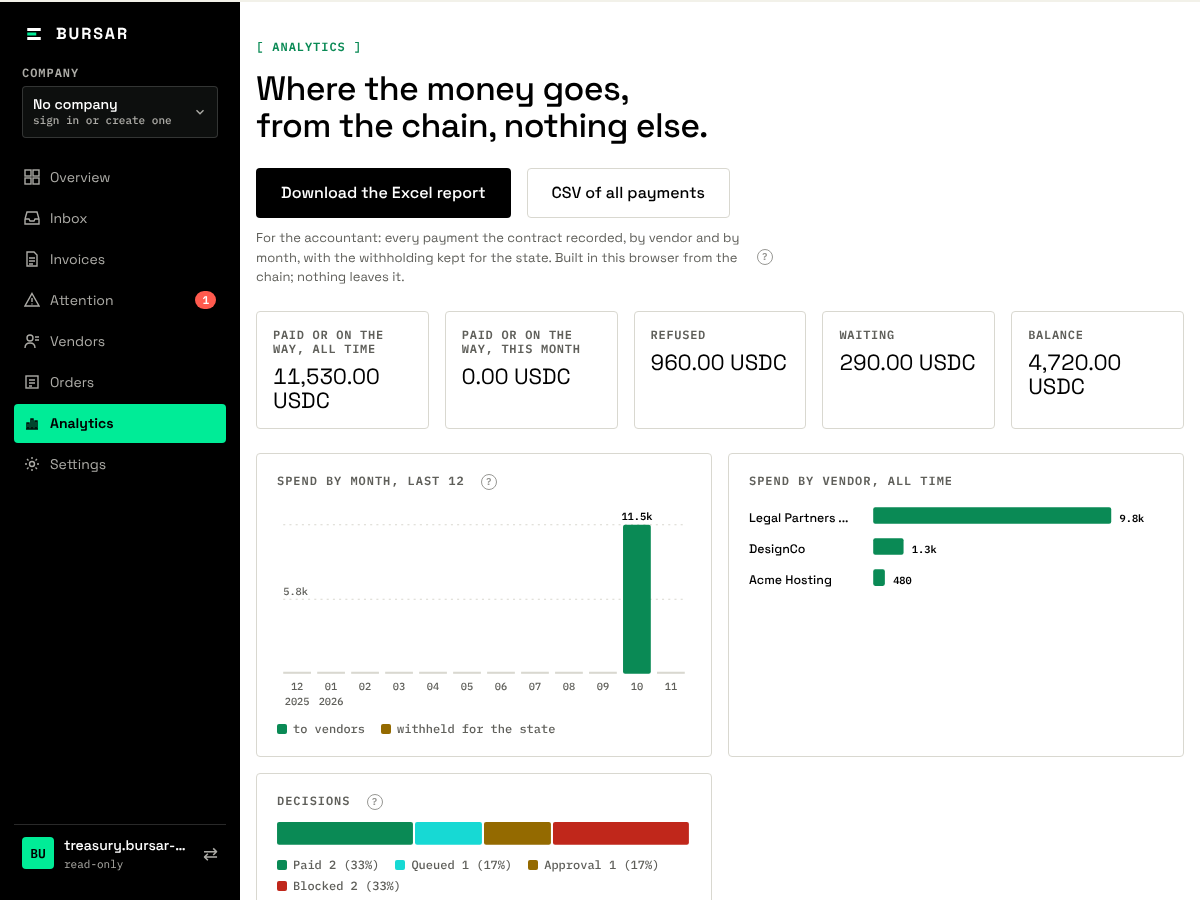
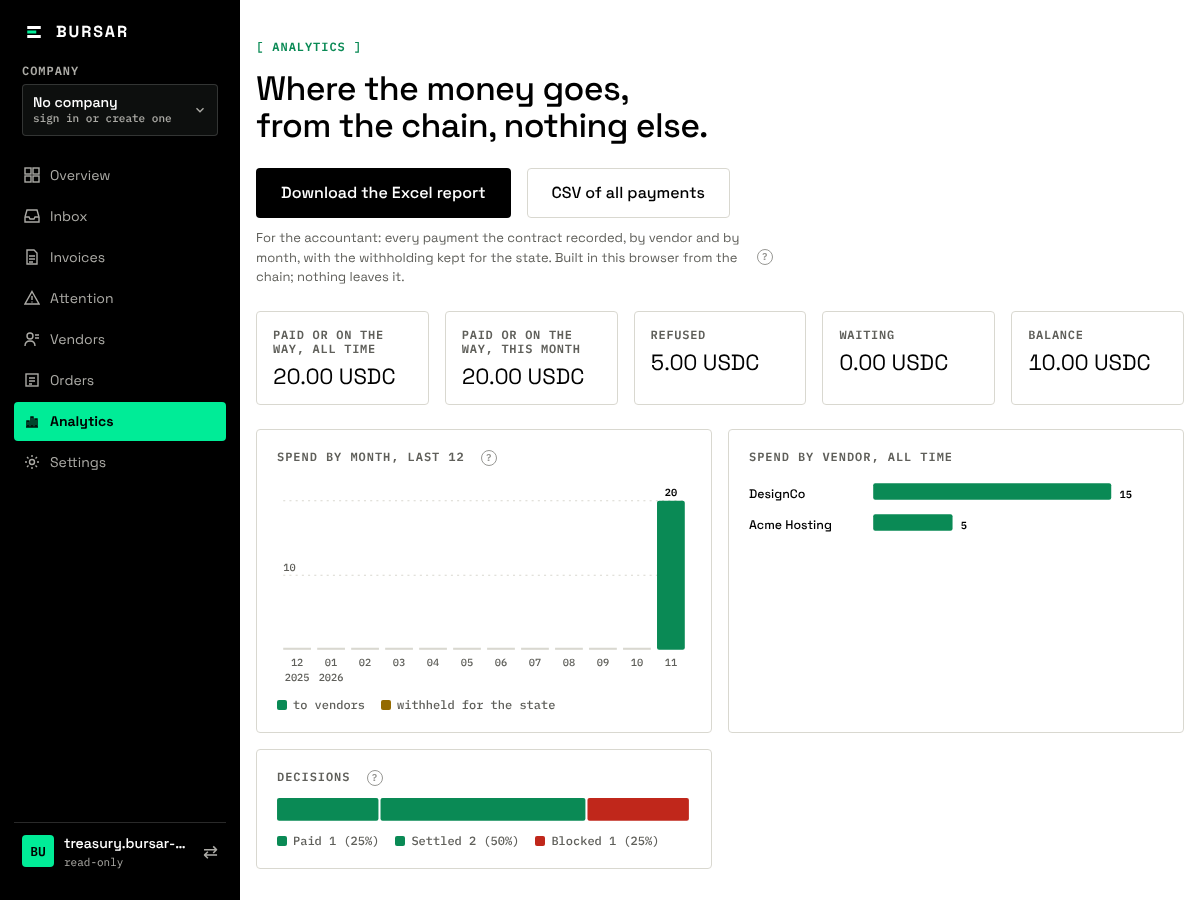
Fix what the eleventh judge run found: operators off the browser key, on-chain links for approved then settled payments, MCP and whitepaper wording
Claude-Session: https://claude.ai/code/session_01V7Aq8XmvYWJDegjhxrDGst

diff --git a/web/console.html b/web/console.html
@@ -491,7 +491,7 @@
     <h3 class="heading-sm" style="margin:40px 0 12px">Cross-chain, waiting for the executor</h3>
     <div id="autoSettleRow" class="autosettle" hidden>
       <button type="button" id="autoSettle" class="toggle" role="switch" aria-checked="false" aria-labelledby="autoSettleTitle"><span class="knob"></span></button>
-      <div class="t"><b id="autoSettleTitle">Automatic settlement is off</b><div class="muted" id="autoSettleNote">Queued payments wait for you to press Settle via Intents on each one.</div></div>
+      <div class="t" style="cursor:pointer" onclick="document.getElementById('autoSettle').click()"><b id="autoSettleTitle">Automatic settlement is off</b><div class="muted" id="autoSettleNote">Queued payments wait for you to press Settle via Intents on each one.</div></div>
     </div>
     <div class="wrap"><table id="attnQueued"><thead><tr><th>#</th><th>vendor</th><th>invoice</th><th>amount</th><th>destination</th></tr></thead><tbody></tbody></table></div>
   </div>
@@ -2239,10 +2239,18 @@ function onChainLinks(r) {
     const x = txIndex.receipts.filter((x) => x.methods.includes("settle") && x.ts > c + 1e9 && x.ts < u - 1e9 && !txClaimed.has(x.hash)).sort((a, b) => b.ts - a.ts)[0];
     if (x) { txClaimed.add(x.hash); seen.add(x.hash); parts.push(near(x.hash, "settle", x.ts)); }
   }
-  // the contract's timestamps arrive as JSON numbers (rounded past the microsecond): match a receipt within two seconds
+  // the contract stores the block of the receipt, nearblocks the block of the transaction, a block or two earlier (and the
+  // timestamps arrive as JSON numbers, rounded past the microsecond): take the nearest receipt within six seconds
   for (const t of [Number(r.created_at) || 0, Number(r.updated_at) || 0]) {
     if (!t) continue;
-    for (const x of txIndex.receipts) if (Math.abs(x.ts - t) < 2e9 && !seen.has(x.hash)) { seen.add(x.hash); parts.push(near(x.hash, x.methods[0].replace(/_/g, " "), x.ts)); }
+    const x = txIndex.receipts.filter((x) => Math.abs(x.ts - t) < 6e9 && !seen.has(x.hash) && !txClaimed.has(x.hash)).sort((a, b) => Math.abs(a.ts - t) - Math.abs(b.ts - t))[0];
+    if (x) { seen.add(x.hash); txClaimed.add(x.hash); parts.push(near(x.hash, x.methods[0].replace(/_/g, " "), x.ts)); }
+  }
+  // a payment held, approved and then settled keeps only the settlement's time: the one approval between the request and the settle
+  if (["Settled", "Settling"].includes(r.status) && r.reason && c) {
+    const end = parts.find((p) => p.label === "settle")?.ts || u;
+    const x = txIndex.receipts.filter((x) => x.methods.some((m) => m.startsWith("approve_payment")) && x.ts > c && x.ts < end && !seen.has(x.hash) && !txClaimed.has(x.hash)).sort((a, b) => a.ts - b.ts)[0];
+    if (x) { seen.add(x.hash); txClaimed.add(x.hash); parts.push(near(x.hash, "approve payment", x.ts)); }
   }
   parts.sort((a, b) => a.ts - b.ts);
   if (r.dest_tx && !r.dest_tx.startsWith("0xstub")) { const base = DEST_EXPLORER[r.chain]; parts.push({ label: `${r.chain} tx`, hash: r.dest_tx, ts: Infinity, url: base ? `${base}${encodeURIComponent(r.dest_tx)}` : "" }); }
@@ -2318,8 +2326,9 @@ function renderSettings() {
 // The key a wallet owner keeps in this browser can call these and nothing else; the rest (ownership, withdrawals, roles, code) needs the wallet itself.
 // What the browser key of a wallet owner may sign alone. Never a vendor or a payout (add_vendor, update_vendor,
 // confirm_vendor_payout: with request_payment they would let a stolen key pay any address), never the DAO (clear_dao),
-// a withdrawal, the owner or the roles, a new build: those the wallet signs, through ownerCall, and shows the owner first.
-const WALLET_KEY_METHODS = ["set_order_bound", "add_order", "add_recurring_order", "close_order", "set_company", "set_limits", "approve_payment", "cancel_payment", "open_dao_proposal_for", "sync_dao_proposal", "sync_balance", "set_vault", "request_payment", "add_operator", "remove_operator", "mark_withholding_remitted", "set_paused", "reset_in_flight"];
+// an operator (add_operator, remove_operator), a withdrawal, the owner or the roles, a new build: those the wallet signs,
+// through ownerCall, and shows the owner first.
+const WALLET_KEY_METHODS = ["set_order_bound", "add_order", "add_recurring_order", "close_order", "set_company", "set_limits", "approve_payment", "cancel_payment", "open_dao_proposal_for", "sync_dao_proposal", "sync_balance", "set_vault", "request_payment", "mark_withholding_remitted", "set_paused", "reset_in_flight"];
 async function ownerCall(method, args, gasTgas = 30) {
   if (!settings.owner || !settings.ownerKey) throw new Error("the owner account and key are not in Settings");
   if (settings.ownerKeyKind === "wallet" && !WALLET_KEY_METHODS.includes(method)) {

diff --git a/web/docs.html b/web/docs.html
@@ -97,7 +97,7 @@
   <div class="rule">
     <span class="k">unknown_vendor</span><span>The vendor must be in the owner's allowlist, by id.</span>
     <span class="k">payout_changed</span><span>The payout printed on the invoice must equal the one the owner recorded for that vendor. A "new bank details" invoice dies here, blocked, not paid.</span>
-    <span class="k">duplicate_invoice</span><span>One invoice number per vendor, ever.</span>
+    <span class="k">duplicate_invoice</span><span>The same invoice number (normalized) or the same file as an invoice this vendor was already paid for or is waiting on; a refused invoice can be sent again.</span>
     <span class="k">over_payment_cap</span><span>No single payment above the per-payment cap.</span>
     <span class="k">over_daily_cap</span><span>No more than the daily cap in one day, across all vendors.</span>
     <span class="k">over_monthly_budget</span><span>No more than the vendor's monthly budget in one month.</span>
@@ -165,7 +165,7 @@
   <h2>Signing in</h2>
   <p>No password, no server. Three doors on the <a href="login">sign-in page</a>:</p>
   <ul>
-    <li><strong>NEAR wallet.</strong> The wallet tells the console who you are. If your account owns a treasury (the registry lists it, the contract confirms it), you pick it and the wallet adds a key limited to that contract to your browser: it signs vendors, orders, limits and approvals, never a transfer. If your account owns none, the console creates one at this first sign-in, in three small windows: your company (name, what it does, country; tax id optional), the creation, and how invoices are read. Under the hood: a payer account from the testnet faucet, the policy contract deployed with your wallet as owner, test USDC, four demo vendors and their orders, an agent with one key. Bursar pays for the accounts and the contract storage; you pay nothing.</li>
+    <li><strong>NEAR wallet.</strong> The wallet tells the console who you are. If your account owns a treasury (the registry lists it, the contract confirms it), you pick it and the wallet adds a key limited to that contract to your browser: it signs orders, limits, approvals and the vault, never a vendor or a payout, an operator, the DAO, a withdrawal, the owner or a new build: those the wallet signs, and shows you first. If your account owns none, the console creates one at this first sign-in, in three small windows: your company (name, what it does, country; tax id optional), the creation, and how invoices are read. Under the hood: a payer account from the testnet faucet, the policy contract deployed with your wallet as owner, test USDC, four demo vendors and their orders, an agent with one key. Bursar pays for the accounts and the contract storage; you pay nothing.</li>
     <li><strong>Invite link.</strong> A colleague's link signs you in with exactly the role they chose.</li>
     <li><strong>Keys file.</strong> For a treasury created with throwaway keys ("Download the keys"), when there is no wallet at all.</li>
   </ul>
@@ -243,7 +243,7 @@ npm run dev verify 1                             # the receipt behind payment 1 
     <span class="k">agent</span><span>The process (or the browser) that reads invoices and asks the contract to pay. One key, one method.</span>
     <span class="k">executor</span><span>The process that settles cross-chain payments the contract queued. No AI, no choice of destination.</span>
     <span class="k">payout</span><span>Where a vendor gets paid: a NEAR account, or a chain and an address. Recorded by the owner, compared on every invoice.</span>
-    <span class="k">hold</span><span>A payment that waits for a person: over the threshold, outside the orders, or flagged by the model.</span>
+    <span class="k">hold</span><span>A payment that waits for a person: over the threshold, outside the orders, flagged by the model, with a tax id, buyer or withholding that does not match the record, or from a chat bound to another vendor.</span>
     <span class="k">receipt</span><span>The signed, attested record of one reading inside the enclave.</span>
     <span class="k">TEE</span><span>Trusted execution environment: hardware-isolated compute (Intel TDX here) that proves what ran with an attestation quote.</span>
     <span class="k">registry</span><span>The public list of treasuries the explorer and the sign-in page read.</span>

diff --git a/web/login.html b/web/login.html
@@ -201,7 +201,7 @@ async function openTreasury(treasury, label, owner) {
     const seed = crypto.getRandomValues(new Uint8Array(32)); const pub = ed25519.getPublicKey(seed);
     const pubStr = "ed25519:" + b58(pub), secretKey = "ed25519:" + b58(concat(seed, pub));
     const { wallet } = await connect().getConnectedWallet();
-    await wallet.signAndSendTransaction({ network, signerId: owner, receiverId: owner, actions: [{ type: "AddKey", params: { publicKey: pubStr, accessKey: { permission: { receiverId: treasury, allowance: "250000000000000000000000", methodNames: ["set_order_bound", "add_order", "add_recurring_order", "close_order", "set_company", "set_limits", "approve_payment", "cancel_payment", "open_dao_proposal_for", "sync_dao_proposal", "sync_balance", "set_vault", "request_payment", "add_operator", "remove_operator", "mark_withholding_remitted", "set_paused", "reset_in_flight"] } } } }] });
+    await wallet.signAndSendTransaction({ network, signerId: owner, receiverId: owner, actions: [{ type: "AddKey", params: { publicKey: pubStr, accessKey: { permission: { receiverId: treasury, allowance: "250000000000000000000000", methodNames: ["set_order_bound", "add_order", "add_recurring_order", "close_order", "set_company", "set_limits", "approve_payment", "cancel_payment", "open_dao_proposal_for", "sync_dao_proposal", "sync_balance", "set_vault", "request_payment", "mark_withholding_remitted", "set_paused", "reset_in_flight"] } } } }] });
     let profiles = []; try { profiles = JSON.parse(localStorage.getItem("bursar.profiles") || "[]"); } catch {}
     const known = profiles.find((p) => p.treasury === treasury) || {};
     const profile = { network, treasury, agent: known.agent || "", agentKey: known.agentKey || "", owner, ownerKey: secretKey, ownerKeyKind: "wallet", label: label || known.label || treasury, operator: "", operatorKey: "", operatorRole: "", payer: known.payer || "", payerKey: known.payerKey || "" };

diff --git a/web/dashboard.html b/web/dashboard.html
@@ -127,7 +127,7 @@ async function load(e) {
       view(network, treasury, "list_vendors"), view(network, treasury, "list_payments", { from: 0, limit: 200 }),
     ]);
     const stat = (k, v) => `<div class="stat"><div class="k">${k}</div><div class="v">${v}</div></div>`;
-    $("#stats").innerHTML = stat("balance", usdc(stats.balance)) + stat("spent today", usdc(stats.spent_today)) + stat("per payment cap", usdc(limits.per_payment_cap)) + stat("daily cap", usdc(limits.daily_cap)) + stat("approval from", usdc(limits.approval_threshold)) + stat("payments", stats.payments) + (stats.paused ? stat("paused", "yes") : "");
+    $("#stats").innerHTML = stat("balance", usdc(stats.balance)) + stat("counted against today's cap", usdc(stats.spent_today)) + stat("per payment cap", usdc(limits.per_payment_cap)) + stat("daily cap", usdc(limits.daily_cap)) + stat("approval from", usdc(limits.approval_threshold)) + stat("payments", stats.payments) + (stats.paused ? stat("paused", "yes") : "");
     $("#vendors tbody").innerHTML = vendors.map(([id, v]) => {
       const b = BigInt(v.monthly_budget), s = BigInt(v.spent_this_month);
       const pct = b > 0n ? Number(s * 100n / b) : 0;

diff --git a/README.md b/README.md
@@ -64,7 +64,7 @@ flowchart LR
    - vendor on NEAR: USDC is transferred in the same transaction (`Paid`)
    - vendor on Base, Arbitrum, Ethereum, Solana or Sui: the **executor** (a plain process with the company's key, no AI) gets a NEAR Intents quote (EXACT_INPUT on the net amount the contract will send) with the vendor's recorded address as recipient and calls `settle` with the bytes 1Click signed and its signature. The contract verifies the signature against 1Click's key, checks that the quote pays the vendor's recorded address for exactly the net amount in USDC on the vendor's chain, that the swap keeps at least 98 percent of it and that it has not expired, registers the one-off deposit account on the token itself and sends the USDC there, in one receipt (`Settling`, then `Settled`). The executor names nothing; nobody signs anything by hand. A refunded settlement goes back in front of a person (`Approval`, reason `settlement_failed`), nothing is re-sent on the executor's own; one nobody can confirm is closed by the owner (`close_settlement`, delivered or not).
    - a USDC transfer that fails on the token contract is rolled back in the callback: balance restored, payment marked `transfer_failed`, nothing lost
-6. Everything is an on-chain event. The MCP server lets any assistant drive it, with exactly the agent's powers.
+6. Everything is an on-chain event. The MCP server lets any assistant drive it with the agent's powers, plus two housekeeping tools that use the owner's and the executor's keys when the environment has them (cancel a held payment, sync the DAO's answers).
 7. Anyone can re-verify the TEE receipt behind a payment, without the API key and without trusting the agent (`bursar verify`).
 8. Orders: the owner records what the company agreed to buy (a purchase order with a total, or a standing order per period). An invoice outside them, or one the model flagged, is held for a person instead of paid on the AI's word. Operators get on-chain roles (approve, manage vendors, manage orders), revocable by the owner.
 
@@ -234,7 +234,7 @@ Then ask: "submit the invoice at invoices/samples/04-acme-hosting-0924-fraud.pdf
 
 **8. Explorer and dashboard.** Open `web/explorer.html` (a static file, no build; live at `https://bursar.network/explorer`). See: every treasury on the network, read from the registry contract and verified against each policy contract (on mainnet `1 registered, 1 verified`; on testnet a hundred and more, the load test below included, plus yours after step 2; reading them all takes under a minute, with "reading 36 of 112 treasuries..." while it works), the totals across companies (treasury balance, paid out today, this month and all time, decisions, blocked, waiting for a person) and the last decisions of every company, with no vendor names and no invoice numbers. On testnet the registry also holds the load-test treasuries of 21 October (the `treasury.bursar-big-*.testnet` rows, invented companies), with every decision their contracts took on the generated invoices still on chain, read from the chain by this page like any other. The page shows accounts and numbers, never company or vendor names. `web/dashboard.html?treasury=treasury.you.testnet` is one company's own page: balance, caps, vendors with their monthly budget, and every payment with its decision, DAO proposal, destination transaction and attestation reference, all read from the RPC.
 
-**9. Be the customer, from a browser.** The console is `web/console.html` (live at `https://bursar.network/console`) and the door is `web/login.html` (live at `https://bursar.network/login`). Nothing to install: every number is read from the contract and every change is signed in the browser. Opened as a local file, everything works except the wallet door, because wallets answer to a web address: sign in with a wallet on the live site, or serve `web/` with any static server.
+**9. Be the customer, from a browser.** The console is `web/console.html` (live at `https://bursar.network/console`) and the door is `web/login.html` (live at `https://bursar.network/login`). Nothing to install: every number is read from the contract and every change is signed in the browser. Opened as a local file, everything works except the wallet door, because wallets answer to a web address (the browser console logs blocked fetches of `builds.json`, `meteor.js` and the sample PDFs, which the pages cover with their `.js` bundles; they are expected): sign in with a wallet on the live site, or serve `web/` with any static server.
 
 Do, with no wallet (works from a local file):
 1. Open `web/login.html` and press "Try it with throwaway keys" (it opens `web/console.html#start`).
@@ -257,7 +257,7 @@ With a wallet, on the live site:
 4. Press "Connect the wallet key" and approve the one transaction.
 
 See:
-- For an existing treasury, the wallet adds a key limited to that contract: the everyday methods only (orders, limits, approvals, operators, the vault, pause), never a vendor or a payout, the DAO, a withdrawal, a change of owner or roles, or a new contract build. Those the wallet signs itself, and shows you first: a stolen browser key cannot add a vendor or point one at a new address and then pay it. A key added by a build before 6 November could also sign vendor and payout changes; Overview says so and "Replace the key" swaps it for a narrow one in one wallet transaction.
+- For an existing treasury, the wallet adds a key limited to that contract: the everyday methods only (orders, limits, approvals, the vault, the company record, pause, balance sync, a request of its own), never a vendor or a payout, an operator, the DAO, a withdrawal, a change of owner or roles, or a new contract build. Those the wallet signs itself, and shows you first: a stolen browser key cannot add a vendor or point one at a new address and then pay it. A key added by a build before 6 November could also sign vendor and payout changes; Overview says so and "Replace the key" swaps it for a narrow one in one wallet transaction.
 - For a new treasury, the same `OK` lines plus `OK owner ... is owned by you.testnet`: the contract is offered to your wallet account (`offer_ownership`) and the wallet accepts it (`accept_ownership`, one signature).
 - "you.testnet, owner, wallet key" at the bottom of the sidebar.
 
@@ -357,7 +357,7 @@ Do, with no device left to admit from (the executor key is gone with the browser
 1. As the owner, press "Replace the executor from this device".
 
 See:
-- The wallet creates a new executor sub-account with one key limited to `settle` and the marks on this treasury (0.2 NEAR), then calls `set_roles`.
+- The wallet creates a new executor sub-account with one key limited to `settle`, the two marks and `sync_dao_proposal` on this treasury (0.2 NEAR), then calls `set_roles`.
 - `get_roles` on the contract naming the new executor, and "Settle via Intents" back in Attention.
 
 A person in the console can also press "Request payment" without the agent key: `request_payment` accepts the agent, the owner and the operators, and decides the same way.
@@ -490,7 +490,7 @@ Do:
 See:
 - The box turning green and saying what runs.
 - `Approval no_order` for invoice 10, then `Queued` after Approve.
-- Within 30 seconds, step 9j with no dialog, ending `Settled`.
+- Within about 30 seconds (the loop ticks every 30 s, the settlement takes a few more), step 9j with no dialog, ending `Settled`.
 
 Three failed attempts leave a payment to a person, with the reason. The same loop runs headless with `npm run executor`.
 
@@ -501,7 +501,7 @@ Do:
 2. Press "Download the Excel report" or "CSV of all payments".
 
 See:
-- One link per transaction the contract recorded a timestamp for (request payment, approve payment, settle, mark settled) and the destination chain transaction, in time order.
+- One link per transaction the page can match: the request and the last change from the contract's two timestamps, the settle and the approval of a held payment from their place between them (a payment approved and then settled keeps only the settlement's time, so its approval is found by order), and the destination chain transaction, in time order.
 - The same links as columns in both files (hyperlinks in Excel).
 - The NEAR transactions as links, read from the nearblocks API v3, on testnet too. A payment the CLI agent requested through the relayer reads `-`: its outer transaction is a meta transaction addressed to the agent, not to the treasury. A payment settled through the stub shows `base stub` for its destination. On mainnet it is the table in step 10.
 
@@ -563,7 +563,7 @@ The hackathon build is the demo above. The [roadmap](ROADMAP.md) has the full pl
 | Access keys as identity | console vault | A device asking to be admitted signs with its wallet key; a device that holds the vault checks `view_access_key_list` of the owner account and admits the account's own full-access keys by itself. |
 | Sputnik DAO v2 / Trezu | `policy` contract | Human approval above a threshold, opened by the contract itself as a FunctionCall proposal; the callback stores the proposal id, `sync_dao_proposal` reads the verdict back. |
 | NEP-141, NEP-297 events | `policy` contract | USDC in, every decision out as an event, so dashboards need no database. |
-| Wallet sign-in (function-call key) | `web/login.html` | Any NEAR wallet through NEAR Connect adds a key limited to the everyday methods of the company's contract (orders, limits, approvals, operators, the vault): vendors and payouts, the DAO, withdrawals, ownership, roles and code changes are signed by the wallet itself. |
+| Wallet sign-in (function-call key) | `web/login.html` | Any NEAR wallet through NEAR Connect adds a key limited to the everyday methods of the company's contract (orders, limits, approvals, the vault, the company record, pause, balance sync, request_payment): vendors and payouts, operators, the DAO, withdrawals, ownership, roles and code changes are signed by the wallet itself. |
 
 ## Repository
 

diff --git a/WHITEPAPER.md b/WHITEPAPER.md
@@ -26,11 +26,11 @@ The AI never chooses an address. The contract pays NEAR vendors itself, in the s
 
 ### 3.1 Accounts and keys
 
-A company's deployment is a set of NEAR accounts under its own root: the treasury (the policy contract), the agent, the executor, and optionally a Sputnik DAO. The treasury account is created together with its contract in one transaction and never gets an access key: only the contract's own owner-gated methods can change it, including `upgrade`, which the contract performs on itself with a migration in the same batch. Nobody, not even the company's machine, holds a key that could redeploy or drain it.
+A company's deployment is a set of NEAR accounts under its own root: the treasury (the policy contract), the agent, the executor, and optionally a Sputnik DAO. The treasury account is created together with its contract in one transaction and never gets an access key: only the contract's own owner-gated methods can change it, including `upgrade`, which the contract performs on itself with a migration in the same batch. No key on the account can redeploy or drain it; `upgrade` and `withdraw` are owner methods, signed by the owner's wallet, so the company's machine, the agent and the executor cannot.
 
 The agent's only key is limited to `request_payment`. It sends claims as NEP-366 meta transactions through a relayer, so on that path the agent pays no gas (a direct call from the console or the MCP server pays it from a small balance); the relayer verifies the delegate's signature, that the key is on the agent's account and the expiry before paying anything, and forwards nothing else.
 
-The owner signs in from a browser with any NEAR wallet. The wallet adds a function-call key limited to the everyday methods of the company's contract; withdrawals, ownership, roles and code changes are signed by the wallet itself, each one shown to the owner before signing. Operators get on-chain roles (approve, manage vendors, manage orders) through invite links the owner can revoke. The company's secrets (the agent and executor keys, the inbox token) live in a vault on the contract, encrypted with a content key wrapped once per wallet key; a new device (the wallet app on a phone keeps its own key for the same account) asks to be admitted with a signed request, and any device that holds the vault checks on chain that the key is one of the owner account's own and admits it by itself. Ownership moves in two steps, an offer and an acceptance.
+The owner signs in from a browser with any NEAR wallet. The wallet adds a function-call key limited to the everyday methods of the company's contract; vendors and payouts, operators, the DAO, withdrawals, ownership, roles and code changes are signed by the wallet itself, each one shown to the owner before signing. Operators get on-chain roles (approve, manage vendors, manage orders) through invite links the owner can revoke. The company's secrets (the agent and executor keys, the inbox token) live in a vault on the contract, encrypted with a content key wrapped once per wallet key; a new device (the wallet app on a phone keeps its own key for the same account) asks to be admitted with a signed request, and any device that holds the vault checks on chain that the key is one of the owner account's own and admits it by itself. Ownership moves in two steps, an offer and an acceptance.
 
 ### 3.2 Reading in an enclave
 

diff --git a/HANDOFF.md b/HANDOFF.md
@@ -750,3 +750,12 @@ Su main 37e4597: tutto "matches", setup al primo colpo, chiavi sopravvissute a 9
 - Export: Summary con "gross paid or on the way" e "net on the way to vendors"; By month con colonna "on the way"; Overview "paid or on the way this month"; aiuto del grafico.
 - docs.html allineata al README: aziende di ogni dimensione, eccezione del relay condiviso, settle su quote firmata, riga mainnet #2 (held flagged poi approvata) e build del 3 novembre, build di test-usdc, refuso.
 - Ethereum aggiunto all'elenco delle chain (README, WHITEPAPER, docs, index, console); 9d "Connect a Telegram chat"; 9h "Trusted vendor" + "accept without asking"; login: quattro fornitori, cinque transazioni e 4,7 NEAR su mainnet; WHITEPAPER: l'agente ha al massimo un piccolo saldo per il gas.
+
+### 2.73 Undicesimo giudice a freddo (6 novembre)
+
+Su main 18bba0c: tutto "matches" (setup al primo colpo, chiavi sopravvissute al riavvio, export e pagina coerenti, link on chain su testnet), tabelle mainnet confermate con l'API v3. Corretto:
+- Chiave del browser: tolti anche `add_operator` e `remove_operator` (con quelli una chiave rubata dava ruoli a un account suo); li firma il wallet via `ownerCall`. Testi allineati (README passo 9 e tabella, WHITEPAPER 3.1, docs sezione 07, che diceva ancora "signs vendors").
+- WHITEPAPER 3.1: "nobody holds a key that could redeploy or drain it" era falso per l'owner (`upgrade`, `withdraw` dal wallet): riscritto come "nessuna chiave sull'account".
+- README: l'MCP non ha "exactly the agent's powers" (ha anche `owner_cancel_payment` e `sync_dao_approvals` con le chiavi di owner ed executor se nell'ambiente).
+- Link on chain: finestra 6 s con il receipt più vicino (il contratto registra il blocco del receipt, nearblocks quello della transazione, 1-2 blocchi prima: un request a 2,58 s restava fuori); per un pagamento tenuto, approvato e poi regolato (il mark sovrascrive updated_at) l'approvazione si cerca per ordine fra request e settle. Verificato su mainnet (invariato) e su testnet (fattura 10: request, approve, base stub).
+- Interruttore 9k: anche il testo accanto lo attiva; 9k "about 30 seconds"; 9c: la chiave del nuovo executor copre anche `sync_dao_proposal`; dashboard "counted against today's cap"; docs: duplicate_invoice (numero normalizzato o stesso file, i rifiutati non contano), glossario "hold" completo; README: gli errori di fetch da file:// sono attesi.
